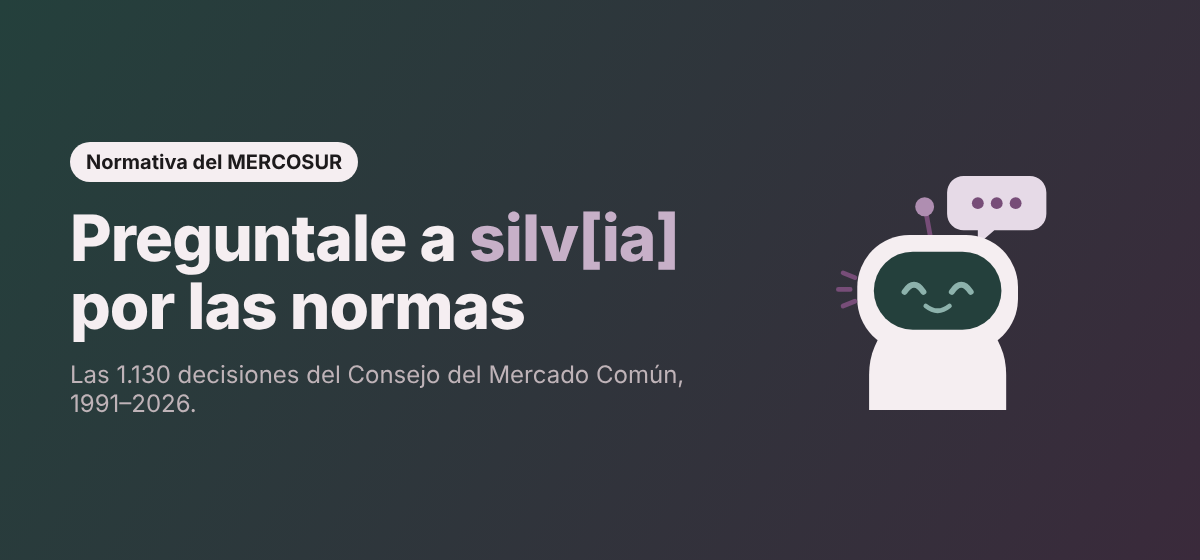
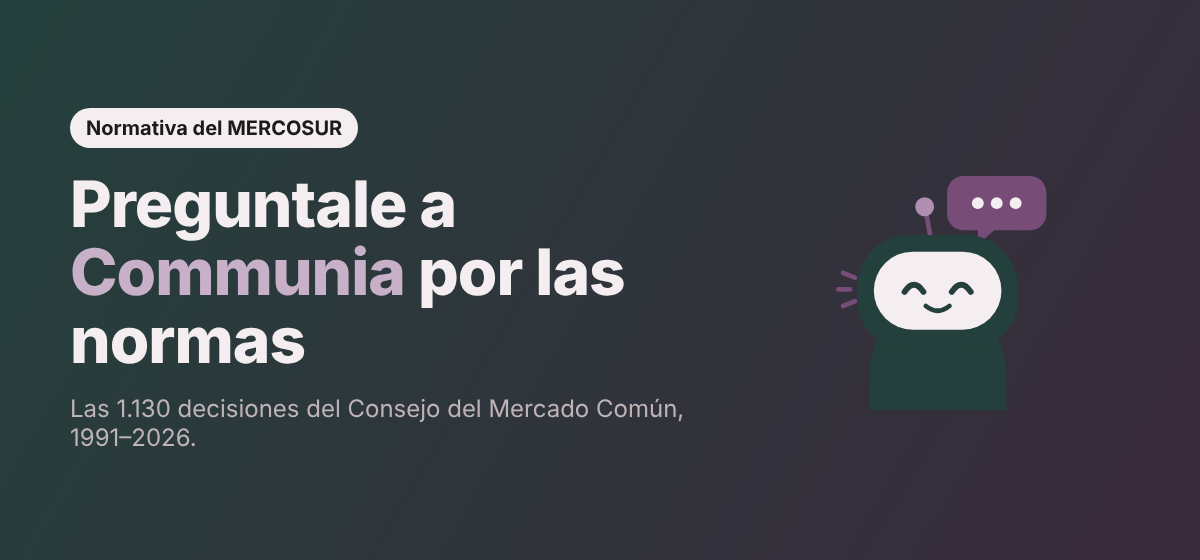
La asistente de normas se llama Communia

Changed region(s): [[0.0308, 0.1821, 0.5858, 0.8196], [0.7092, 0.3036, 0.8942, 0.7589]]

diff --git a/docs/index.html b/docs/index.html
@@ -3,7 +3,7 @@
 <head>
 <meta charset="utf-8">
 <meta name="viewport" content="width=device-width, initial-scale=1">
-<title>Normas del MERCOSUR: buscador de decisiones, resoluciones y directivas | silv[ia]</title>
+<title>Normas del MERCOSUR: buscador de decisiones, resoluciones y directivas | Communia</title>
 <meta property="og:image" content="https://silvia-mov.github.io/normativa-mercosur/img/miniatura_index.png">
 <meta property="og:image:width" content="1280">
 <meta property="og:image:height" content="640">
@@ -115,8 +115,9 @@ h3.v { color:var(--accent); } h3.r { color:var(--pink); }
 <header class="hero">
   <div class="wrap">
     <div class="marca"><img src="logo.svg" alt=""><span><b>Normas MERCOSUR</b><br><small>Asistente de consultas · proyecto independiente</small></span></div>
-    <div class="heroflex"><div><h1>Hola, soy <em>silv[ia]</em>: tu asistente para la normativa MERCOSUR</h1>
-    <p class="lead">Preguntá y obtené respuestas basadas solo en el texto de las normas del MERCOSUR (1991–2026), con la norma citada: 1.130 decisiones del Consejo del Mercado Común, 2.181 resoluciones del Grupo Mercado Común (de 2.183 publicadas; 2 sin archivo) y 1.933 directivas de la Comisión de Comercio (de 1.934 publicadas).</p></div><img class="mascota" src="silvia.svg" alt="silv[ia], la asistente"></div>
+    <div class="heroflex"><div><h1>Hola, soy <em>Communia</em>: tu asistente para la normativa MERCOSUR</h1>
+    <p class="lead">Preguntá y obtené respuestas basadas solo en el texto de las normas del MERCOSUR (1991–2026), con la norma citada: 1.130 decisiones del Consejo del Mercado Común, 2.181 resoluciones del Grupo Mercado Común (de 2.183 publicadas; 2 sin archivo) y 1.933 directivas de la Comisión de Comercio (de 1.934 publicadas).</p>
+    <p style="margin-top:6px;font-size:15px;color:var(--text2,#5c5459)">Communia es latín: «las cosas comunes». Sale del nombre del bloque: Mercado <b>COMÚN</b> + <b>IA</b>.</p></div><img class="mascota" src="communia.svg" alt="Communia, la asistente"></div>
   </div>
 </header>
 
@@ -134,7 +135,7 @@ h3.v { color:var(--accent); } h3.r { color:var(--pink); }
   <div class="filtro"><label for="tipo">Buscar en</label>
     <select id="tipo"><option value="">todas las normas</option><option value="dec">Decisiones del CMC</option><option value="res">Resoluciones del GMC</option><option value="dir">Directivas de la CCM</option></select></div>
   <form id="form">
-    <textarea id="pregunta" rows="2" maxlength="500" placeholder="Preguntale a silv[ia] sobre la normativa del MERCOSUR…" aria-label="Tu pregunta" disabled></textarea>
+    <textarea id="pregunta" rows="2" maxlength="500" placeholder="Preguntale a Communia sobre la normativa del MERCOSUR…" aria-label="Tu pregunta" disabled></textarea>
     <button id="enviar" disabled>Preguntar</button>
   </form>
   <div id="chat" aria-live="polite"></div>
@@ -142,9 +143,9 @@ h3.v { color:var(--accent); } h3.r { color:var(--pink); }
   <section class="info">
     <div class="rasgos">
       <div><h3 class="v">Trazabilidad directa</h3><p>Cada respuesta enlaza al texto exacto de la norma en el repositorio.</p></div>
-      <div><h3 class="r">Solo con las normas</h3><p>silv[ia] responde únicamente con el texto de las normas; si no lo encuentra, lo dice.</p></div>
+      <div><h3 class="r">Solo con las normas</h3><p>Communia responde únicamente con el texto de las normas; si no lo encuentra, lo dice.</p></div>
     </div>
-    <div class="ejemplo"><div class="ej-in"><b>silv[ia] responde:</b><p>Según la <b>Decisión CMC N° 05/23</b>, el nuevo Régimen de Origen MERCOSUR fija los requisitos para que un producto sea considerado originario y reciba la preferencia (versión vigente: su fe de erratas).</p><a href="https://github.com/silvia-mov/normativa-mercosur/blob/main/decisiones/2023/DEC_005-2023_ES_fe-de-erratas_regimen-de-origen-mercosur_v2.txt">decisiones/2023/DEC_005-2023 (fe de erratas) → Ver fuente</a></div></div>
+    <div class="ejemplo"><div class="ej-in"><b>Communia responde:</b><p>Según la <b>Decisión CMC N° 05/23</b>, el nuevo Régimen de Origen MERCOSUR fija los requisitos para que un producto sea considerado originario y reciba la preferencia (versión vigente: su fe de erratas).</p><a href="https://github.com/silvia-mov/normativa-mercosur/blob/main/decisiones/2023/DEC_005-2023_ES_fe-de-erratas_regimen-de-origen-mercosur_v2.txt">decisiones/2023/DEC_005-2023 (fe de erratas) → Ver fuente</a></div></div>
   </section>
 
   <section class="saber">
@@ -309,7 +310,7 @@ $("form").addEventListener("submit", async (e) => {
   if (!res.length) { agregar("bot", "<p>No encontré normas que hablen de eso. Probá con otras palabras.</p>"); return; }
   const frags = res.map((r) => { const [n, texto] = DATOS.fragmentos[r.id]; const [codigo, titulo, anio, url, tipo, vigencia] = DATOS.normas[n]; return { codigo, titulo, anio, url, tipo, vigencia, texto }; });
   if (!ASISTENTE_URL) { agregar("bot", "<p>Estas son las normas que mejor coinciden con tu pregunta:</p>" + fuentesHTML(frags)); return; }
-  const caja = agregar("bot", "<p>silv[ia] está leyendo las normas…</p>");
+  const caja = agregar("bot", "<p>Communia está leyendo las normas…</p>");
   $("enviar").disabled = true;
   try {
     const r = await fetch(ASISTENTE_URL, { method: "POST", headers: { "Content-Type": "application/json" }, signal: AbortSignal.timeout(70000),
